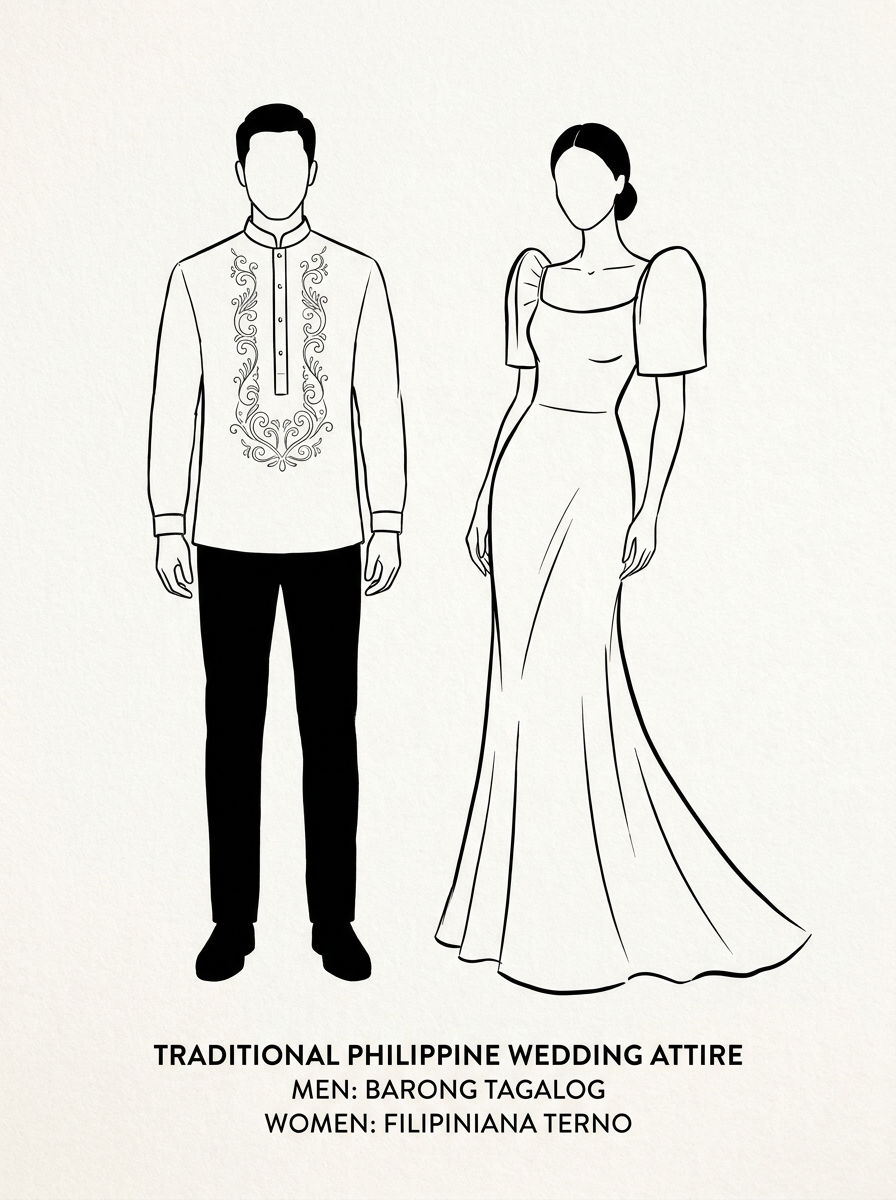
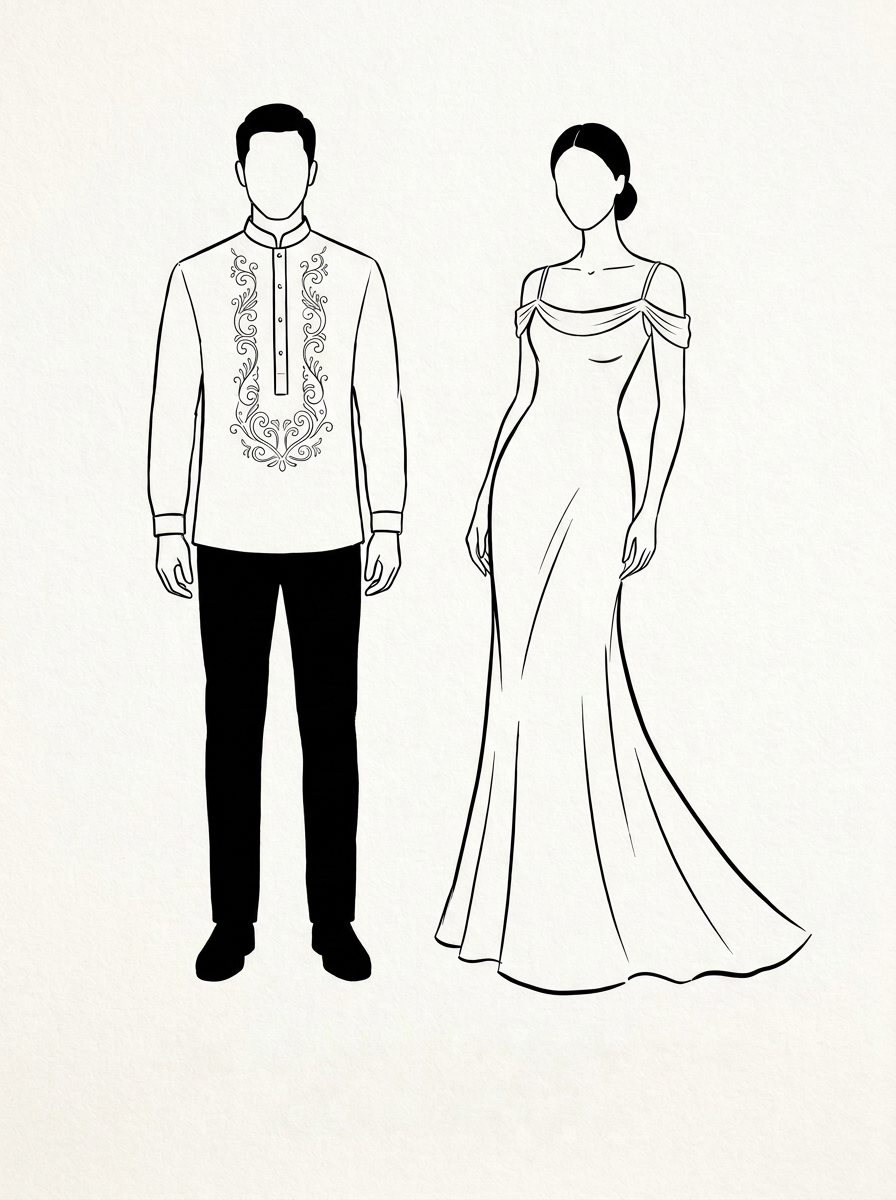
Update attire sketch and remove Filipiniana text mentions

diff --git a/public/index.html b/public/index.html
@@ -573,7 +573,7 @@
       </div>
     </section>
 
-    <!-- 6. FILIPINIANA ATTIRE GUIDE & PALETTE SECTION (1 CONTAINER ONLY - INSPIRED BY PHOTO 5) -->
+    <!-- 6. WEDDING ATTIRE GUIDE & PALETTE SECTION (1 CONTAINER ONLY - INSPIRED BY PHOTO 5) -->
     <section class="section-gold-brown-1 py-20 px-4">
       <div class="max-w-5xl mx-auto">
         <div class="text-center max-w-2xl mx-auto mb-14">
@@ -596,7 +596,7 @@
 
           <!-- Top Guidance Description -->
           <p id="dress-code-text" class="text-stone-700 text-sm sm:text-base max-w-2xl mx-auto text-center leading-relaxed mb-8 font-serif">
-            Traditional Barong Tagalog for Gentlemen; Formal Long Gowns or Evening Dresses in Themed Earthy & Warm Champagne Tones for Ladies (Filipiniana not required).
+            Traditional Barong Tagalog for Gentlemen; Formal Long Gowns or Evening Dresses in Themed Earthy & Warm Champagne Tones for Ladies.
           </p>
 
           <!-- 3-Column Balanced Layout from Image 5: Sponsors | Illustrated Fashion Sketch | Guests -->
@@ -612,7 +612,7 @@
                 <div class="p-3.5 rounded-xl bg-white/60 border border-amber-200/50">
                   <p class="font-bold text-wedding-primary text-base">Formal Long Gown</p>
                   <p class="text-stone-600 text-xs sm:text-sm">Floor-length evening dress in themed colors</p>
-                  <span class="inline-block mt-1.5 text-[11px] font-sans font-medium text-stone-600 bg-amber-50/90 px-2.5 py-0.5 rounded-full border border-amber-200/70">Filipiniana not required</span>
+                  <p class="text-stone-500 text-xs italic">for the ladies</p>
                 </div>
                 <div class="p-3.5 rounded-xl bg-white/60 border border-amber-200/50">
                   <p class="font-bold text-stone-800 text-base">Traditional Barong</p>
@@ -629,11 +629,11 @@
             <!-- Center: The Illustrated Fashion Sketch from Image 5 -->
             <div class="lg:col-span-6 text-center">
               <div class="relative mx-auto max-w-[340px] sm:max-w-[380px] bg-white/90 p-4 rounded-2xl border border-amber-200/70 shadow-sm">
-                <img src="/images/attire-sketch.png" alt="Traditional Philippine Wedding Attire - Barong Tagalog & Filipiniana Terno" class="w-full h-auto object-contain rounded-xl">
+                <img src="/images/attire-sketch.png" alt="Formal Wedding Attire - Barong Tagalog & Formal Evening Gown" class="w-full h-auto object-contain rounded-xl">
                 <div class="mt-3 pt-2.5 border-t border-stone-200/60 flex items-center justify-center gap-2 text-[11px] font-cinzel font-semibold tracking-wider text-stone-700 uppercase">
                   <span>Barong Tagalog</span>
                   <span class="text-wedding-secondary">•</span>
-                  <span>Formal Gown / Terno</span>
+                  <span>Formal Evening Gown</span>
                 </div>
               </div>
             </div>
@@ -646,8 +646,9 @@
               </div>
               <div class="space-y-3 font-serif">
                 <div class="p-3.5 rounded-xl bg-white/60 border border-amber-200/50">
-                  <p class="font-bold text-wedding-primary text-base">Filipiniana or Puff Dress</p>
-                  <p class="text-stone-600 text-xs sm:text-sm italic">for the ladies</p>
+                  <p class="font-bold text-wedding-primary text-base">Formal Long Gown</p>
+                  <p class="text-stone-600 text-xs sm:text-sm">or elegant evening dress in themed colors</p>
+                  <p class="text-stone-500 text-xs italic">for the ladies</p>
                 </div>
                 <div class="p-3.5 rounded-xl bg-white/60 border border-amber-200/50">
                   <p class="font-bold text-stone-800 text-base">Traditional Barong or Polo</p>

diff --git a/database/seeders/DatabaseSeeder.php b/database/seeders/DatabaseSeeder.php
@@ -75,7 +75,7 @@ class DatabaseSeeder extends Seeder
                 ['Key' => 'ReceptionVenue', 'Value' => 'The Grounds Events', 'Category' => 'Venue', 'Description' => 'Reception venue name'],
                 ['Key' => 'ReceptionAddress', 'Value' => '9022 Provincial Road, Sitio Gulod, Sapang Palay Proper, City of San Jose del Monte, Bulacan', 'Category' => 'Venue', 'Description' => 'Reception physical address'],
                 ['Key' => 'WeddingHashtag', 'Value' => '#MajhMadeForAaron', 'Category' => 'Social', 'Description' => 'Official wedding hashtag'],
-                ['Key' => 'DressCode', 'Value' => 'Traditional Barong Tagalog with dark dress slacks for Gentlemen; Formal Long Gowns or Evening Dresses in Themed Earthy & Warm Champagne Tones for Ladies (Filipiniana not required)', 'Category' => 'Details', 'Description' => 'Guest dress code instructions'],
+                ['Key' => 'DressCode', 'Value' => 'Traditional Barong Tagalog with dark dress slacks for Gentlemen; Formal Long Gowns or Evening Dresses in Themed Earthy & Warm Champagne Tones for Ladies.', 'Category' => 'Details', 'Description' => 'Guest dress code instructions'],
                 ['Key' => 'GoogleMapsUrl', 'Value' => 'https://maps.app.goo.gl/zTNEPZgL3Nvw2beD8', 'Category' => 'Venue', 'Description' => 'Ceremony Google Maps link'],
                 ['Key' => 'ReceptionGoogleMapsUrl', 'Value' => 'https://maps.app.goo.gl/1yj3RXyGy8ZQ5sEu8', 'Category' => 'Venue', 'Description' => 'Reception Google Maps link'],
                 ['Key' => 'BackgroundMusic', 'Value' => '/audio/wedding-ambient.mp3', 'Category' => 'Media', 'Description' => 'Audio file path or URL (Wedding Ambient)'],
@@ -183,7 +183,7 @@ class DatabaseSeeder extends Seeder
         if (FaqItem::count() === 0) {
             $faqs = [
                 ['Question' => 'What time should we arrive?', 'Answer' => 'We recommend arriving between 2:15 PM and 2:30 PM to allow ample time for parking and seating before the ceremony begins promptly at 3:00 PM.', 'DisplayOrder' => 1, 'IsActive' => true],
-                ['Question' => 'What is the dress code?', 'Answer' => 'The dress code is Formal: Traditional Barong Tagalog with dark dress slacks for gentlemen, and formal long gowns or elegant evening dresses in our themed color palette for ladies (Filipiniana is not required). Our color palette features earthy terracotta (#8B4A2D), warm clay rose (#C58567), champagne sand (#E7D2C4), and piña calado ivory (#F7F2EB). We kindly request guests to reserve pure white and off-white for the bride.', 'DisplayOrder' => 2, 'IsActive' => true],
+                ['Question' => 'What is the dress code?', 'Answer' => 'The dress code is Formal: Traditional Barong Tagalog with dark dress slacks for gentlemen, and formal long gowns or elegant evening dresses in our themed color palette for ladies. Our color palette features golden mocha brown (#5C4533), warm caramel gold (#8C6849), and warm alabaster (#DFD3C4). We kindly request guests to reserve pure white and off-white for the bride.', 'DisplayOrder' => 2, 'IsActive' => true],
                 ['Question' => 'Can I bring a plus one?', 'Answer' => 'Due to venue capacity restrictions, we can only accommodate guests formally named on your invitation. If your invitation specifies a plus one or companion count, you may register them during RSVP.', 'DisplayOrder' => 3, 'IsActive' => true],
                 ['Question' => 'Are children invited?', 'Answer' => 'While we love your little ones, this is an adults-only celebration with the exception of children in the wedding entourage. We hope you understand and enjoy a night off to celebrate with us!', 'DisplayOrder' => 4, 'IsActive' => true],
                 ['Question' => 'Where can I park?', 'Answer' => 'Designated parking is available at Our Lady of La Sallette Quasi Parish and at The Grounds Events reception venue.', 'DisplayOrder' => 5, 'IsActive' => true],
